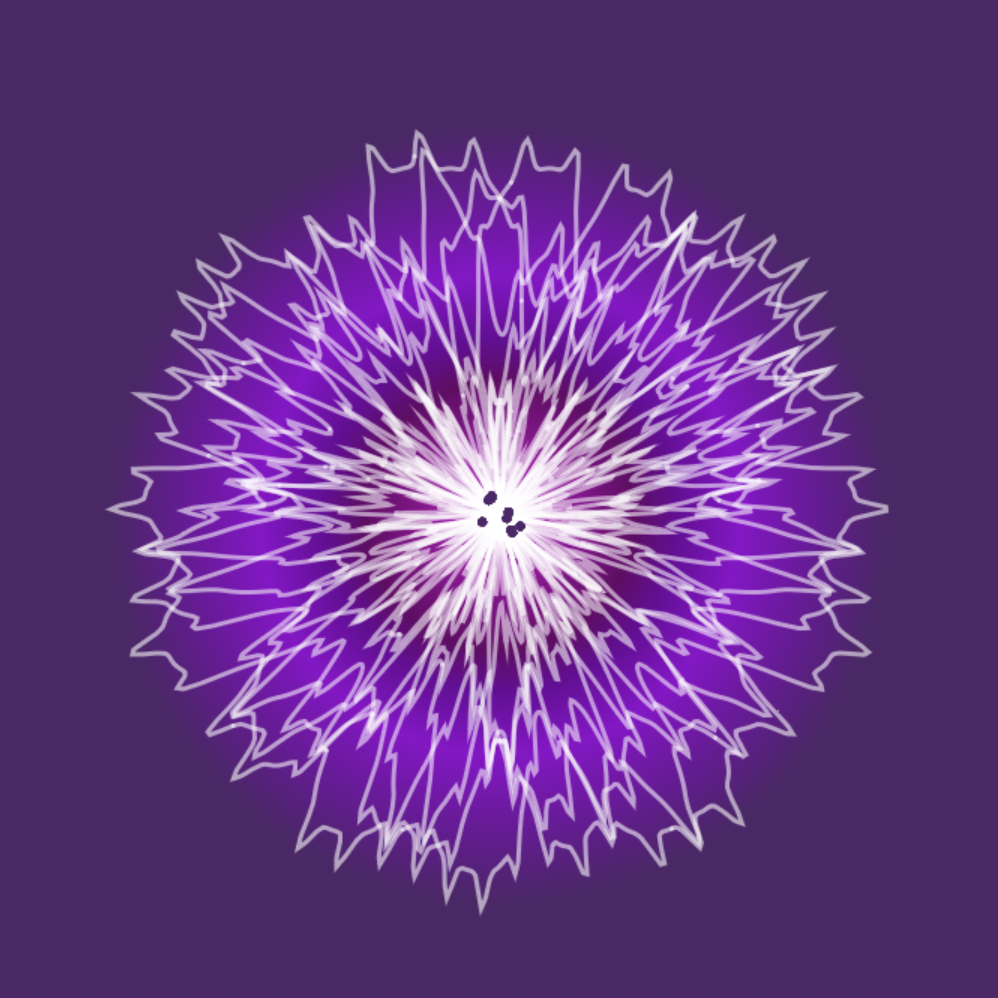
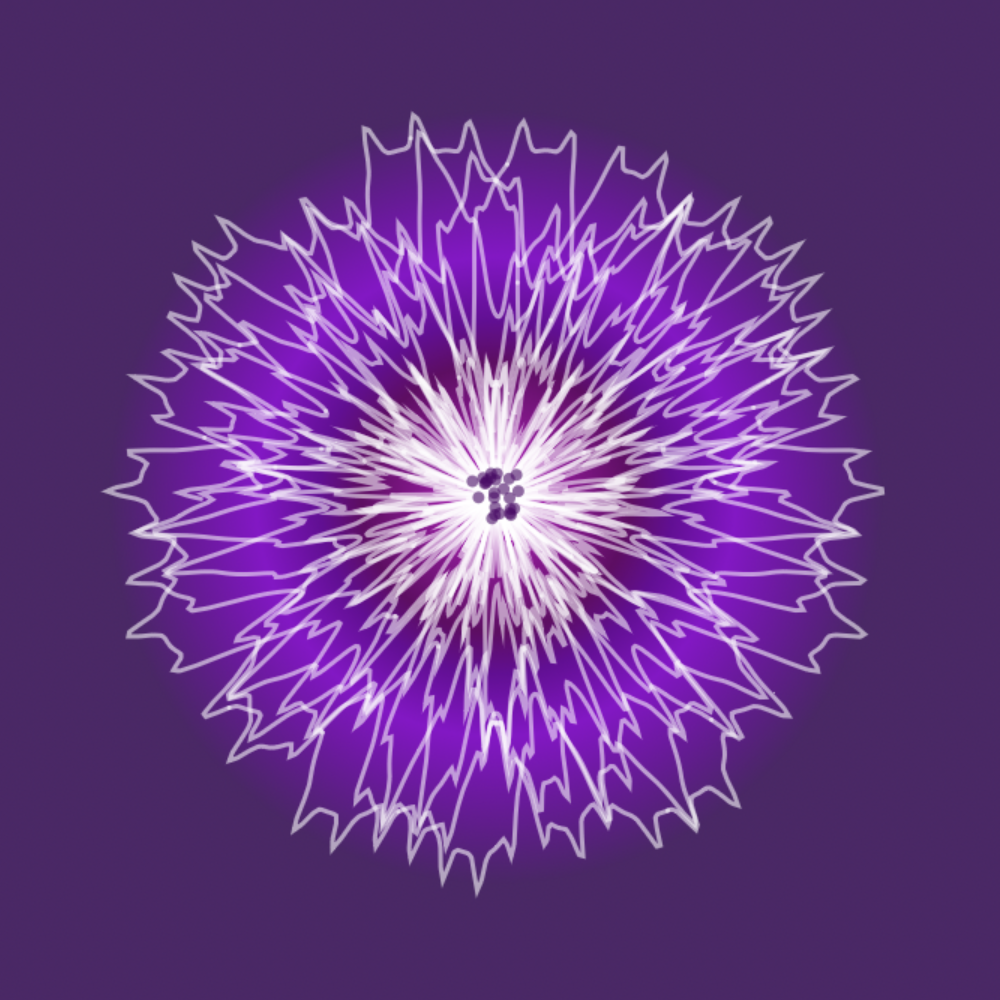
Trying to create multiple flowers

Changed region(s): [[0.0932, 0.0932, 0.9008, 0.9319]]

diff --git a/patgradexample/sketch.js b/patgradexample/sketch.js
@@ -1,0 +1,55 @@
+let gradient1;
+let gradient2;
+let gradient3;
+
+function setup() {
+  createCanvas(400, 400);
+
+  // create a linear gradient that's angled at 0 radians, and is 200px wide
+  gradient1 = createLinearGradient(0, 200);
+  // add some colors
+  // at 0% make it lightblue, then at 50% make it pink, and at 100% make it magenta
+  gradient1.colors(0, "lightblue", 0.5, "pink", 1, "magenta");
+
+  gradient2 = createRadialGradient(0, 100);
+  gradient2.colors(0, color(200), 1, color(50));
+
+  // create a conic gradient that starts at angle 0, and whose center point is at 200, 200
+  gradient3 = createConicGradient(0, 200, 200);
+
+  // fill the gradient with some random colors!
+  for (let i = 0; i < 5; i++) {
+    let position = i / 5;
+    let c = color(random(255), random(255), random(255));
+    // calling gradient3.colors() will add the color to the gradient
+    // alternatively you can pass an array to the colors function
+    gradient3.colors(position, c);
+  }
+}
+
+function draw() {
+  // // uncomment for some animation...
+  // gradient2 = createRadialGradient(0, 100);
+  // gradient2.colors(0, color(abs(sin(frameCount/100))*200), 1, color(abs(cos(frameCount/100))*200));
+
+  // set the background to gradient3
+  backgroundGradient(gradient3);
+
+  noStroke();
+
+  // you must always call fillGradient OUTSIDE push and pop
+  fillGradient(gradient1);
+
+  // you must always translate to apply the gradient properly
+  // maybe I can figure out a way to fix this??? Or maybe I can't!
+  push();
+  translate(100, 100);
+  rect(0, 0, 200, 200);
+  pop();
+
+  fillGradient(gradient2);
+  push();
+  translate(300, 300);
+  ellipse(0, 0, 100, 100);
+  pop();
+}

diff --git a/3d-chrysanthemum-layers copy/flower.js b/3d-chrysanthemum-layers copy/flower.js
@@ -1,0 +1,47 @@
+class Flower {
+    constructor(_px, _py, _p, _q, _h) {
+        this.p = _p;
+        this.q = _q;
+        this.px = _px;
+        this.py = _py;
+        this.h = _h;
+        this.points = [];
+    }
+
+    // https://github.com/anuraghazra/CanvasFun/blob/master/LoveHearts/Heart.js
+    // Reference for this function
+    // We need to loop trhough flower once before creating object
+    oneFlower() {
+        // 7560 when angle mode radians
+        let offset = 30;
+        for (let beta = 0; beta < 7560; beta += 1) {
+            let phi = this.p * beta;
+            let theta = this.q * beta;
+            let r = 5 * (1 + sin(11 * beta / 5)) - 4 * pow(sin(17 * beta / 3), 4) + pow(sin(2 * cos(3 * beta) - 28 * beta), 8);
+            let x = r * cos(theta) * (this.h + cos(phi)) + offset;
+            let y = -r * sin(theta) * (this.h + cos(phi)); + offset;
+            let p = createVector(x, y);
+            if (this.points.length < 7560) {
+                this.points[beta] = p;
+            } else {
+                break;
+            }
+        }
+
+    }
+
+
+    show() {
+        
+        push();
+        noFill();
+        translate(this.px, this.py);
+        beginShape();
+        for (let v of this.points) {
+            stroke(204, 0, 153, 50);
+            vertex(v.x, v.y);
+        }
+        endShape();
+        pop();
+    }
+}

diff --git a/3d-chrysanthemum-layers copy/sketch.js b/3d-chrysanthemum-layers copy/sketch.js
@@ -1,0 +1,51 @@
+// Code base from Daniel Shiffman's Heart Curve coding challenge
+// https://thecodingtrain.com/challenges/134-heart-curve
+// https://youtu.be/oUBAi9xQ2X4
+
+// http://paulbourke.net/geometry/chrysanthemum/
+
+
+// https://github.com/antiboredom/p5.patgrad
+
+const flowers = [];
+let angle = 0;
+let beta = 0;
+const p = 4;
+const q = 3;
+let gradient;
+let c1,c2,c3,c4;
+
+
+
+function setup() {
+  createCanvas(600, 600);
+  let c1 = color(236,179,255, 100);
+  let c2 = color('#730099');
+  gradient = createRadialGradient(0, 40)
+  gradient.colors(0, c2, 0.75, c1);
+ 
+  // center of flower is 30px offset from center of circle
+  for (let i = 0; i < 2; i++) {
+    flowers.push(new Flower(70 + i*100, 275, 5, 2, 3));
+  }
+}
+
+function draw() {
+  angleMode(DEGREES);
+  background(204,255,255, 100);
+  for (let i = 0; i < 2; i++) {
+    gradient.colors(0, c1, 0.75, c2);
+    fillGradient(gradient);
+    push();
+    noStroke();
+    translate(100+i*100, 275);
+    ellipse(0, 0, 80, 80);
+    pop();
+    flowers[i].oneFlower();
+    flowers[i].show();
+  }
+}
+
+function mousePressed() {
+  save('chysanthemum.jpg');
+}

diff --git a/patgradexample/index.html b/patgradexample/index.html
@@ -1,0 +1,18 @@
+<!DOCTYPE html>
+<html lang="en">
+  <head>
+    <meta charset="utf-8" />
+    <meta name="viewport" content="width=device-width, initial-scale=1.0" />
+
+    <title>Sketch</title>
+
+    <!-- <link rel="stylesheet" type="text/css" href="style.css" /> -->
+
+    <script src="https://cdnjs.cloudflare.com/ajax/libs/p5.js/1.5.0/p5.js"></script>
+    <script src="https://cdn.jsdelivr.net/gh/antiboredom/p5.patgrad/p5.patgrad.js"></script>
+  </head>
+
+  <body>
+    <script src="sketch.js"></script>
+  </body>
+</html>

diff --git a/3d-chrysanthemum-layers copy/index.html b/3d-chrysanthemum-layers copy/index.html
@@ -1,0 +1,14 @@
+<!DOCTYPE html>
+<html lang="en">
+  <head>
+    <script src="https://cdnjs.cloudflare.com/ajax/libs/p5.js/1.5.0/p5.js"></script>
+    <script src="https://cdn.jsdelivr.net/gh/antiboredom/p5.patgrad/p5.patgrad.js"></script>
+    <!-- <link rel="stylesheet" type="text/css" href="style.css"> -->
+    <meta charset="utf-8" />
+
+  </head>
+  <body>
+    <script src="sketch.js"></script>
+    <script src="flower.js"></script>
+  </body>
+</html>
